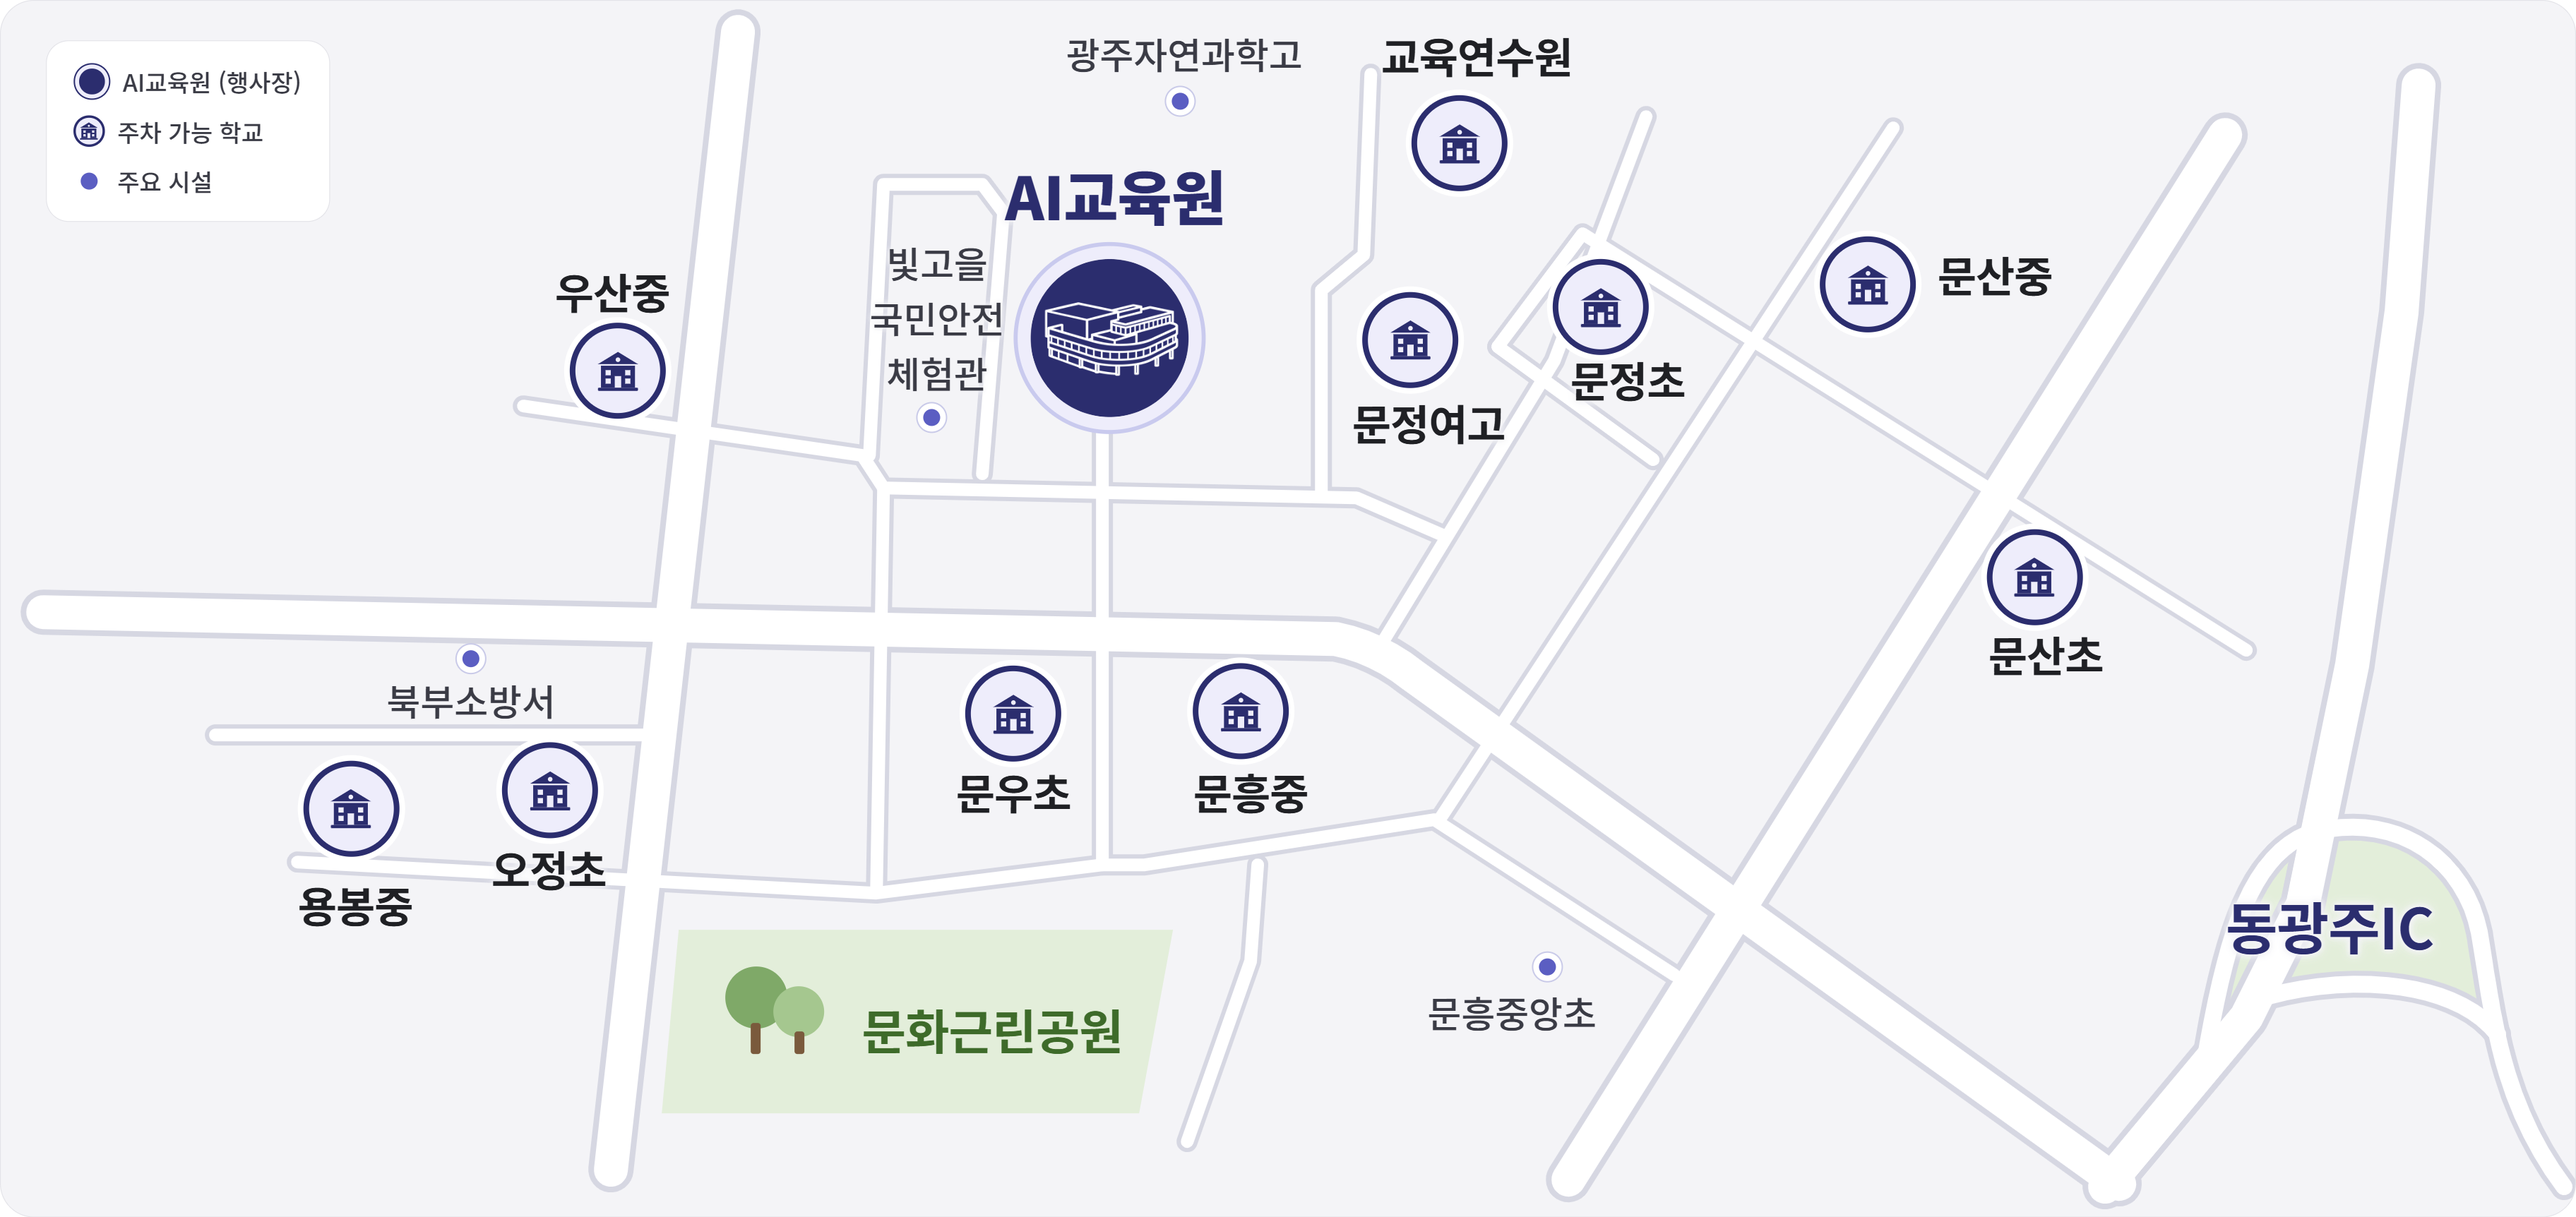
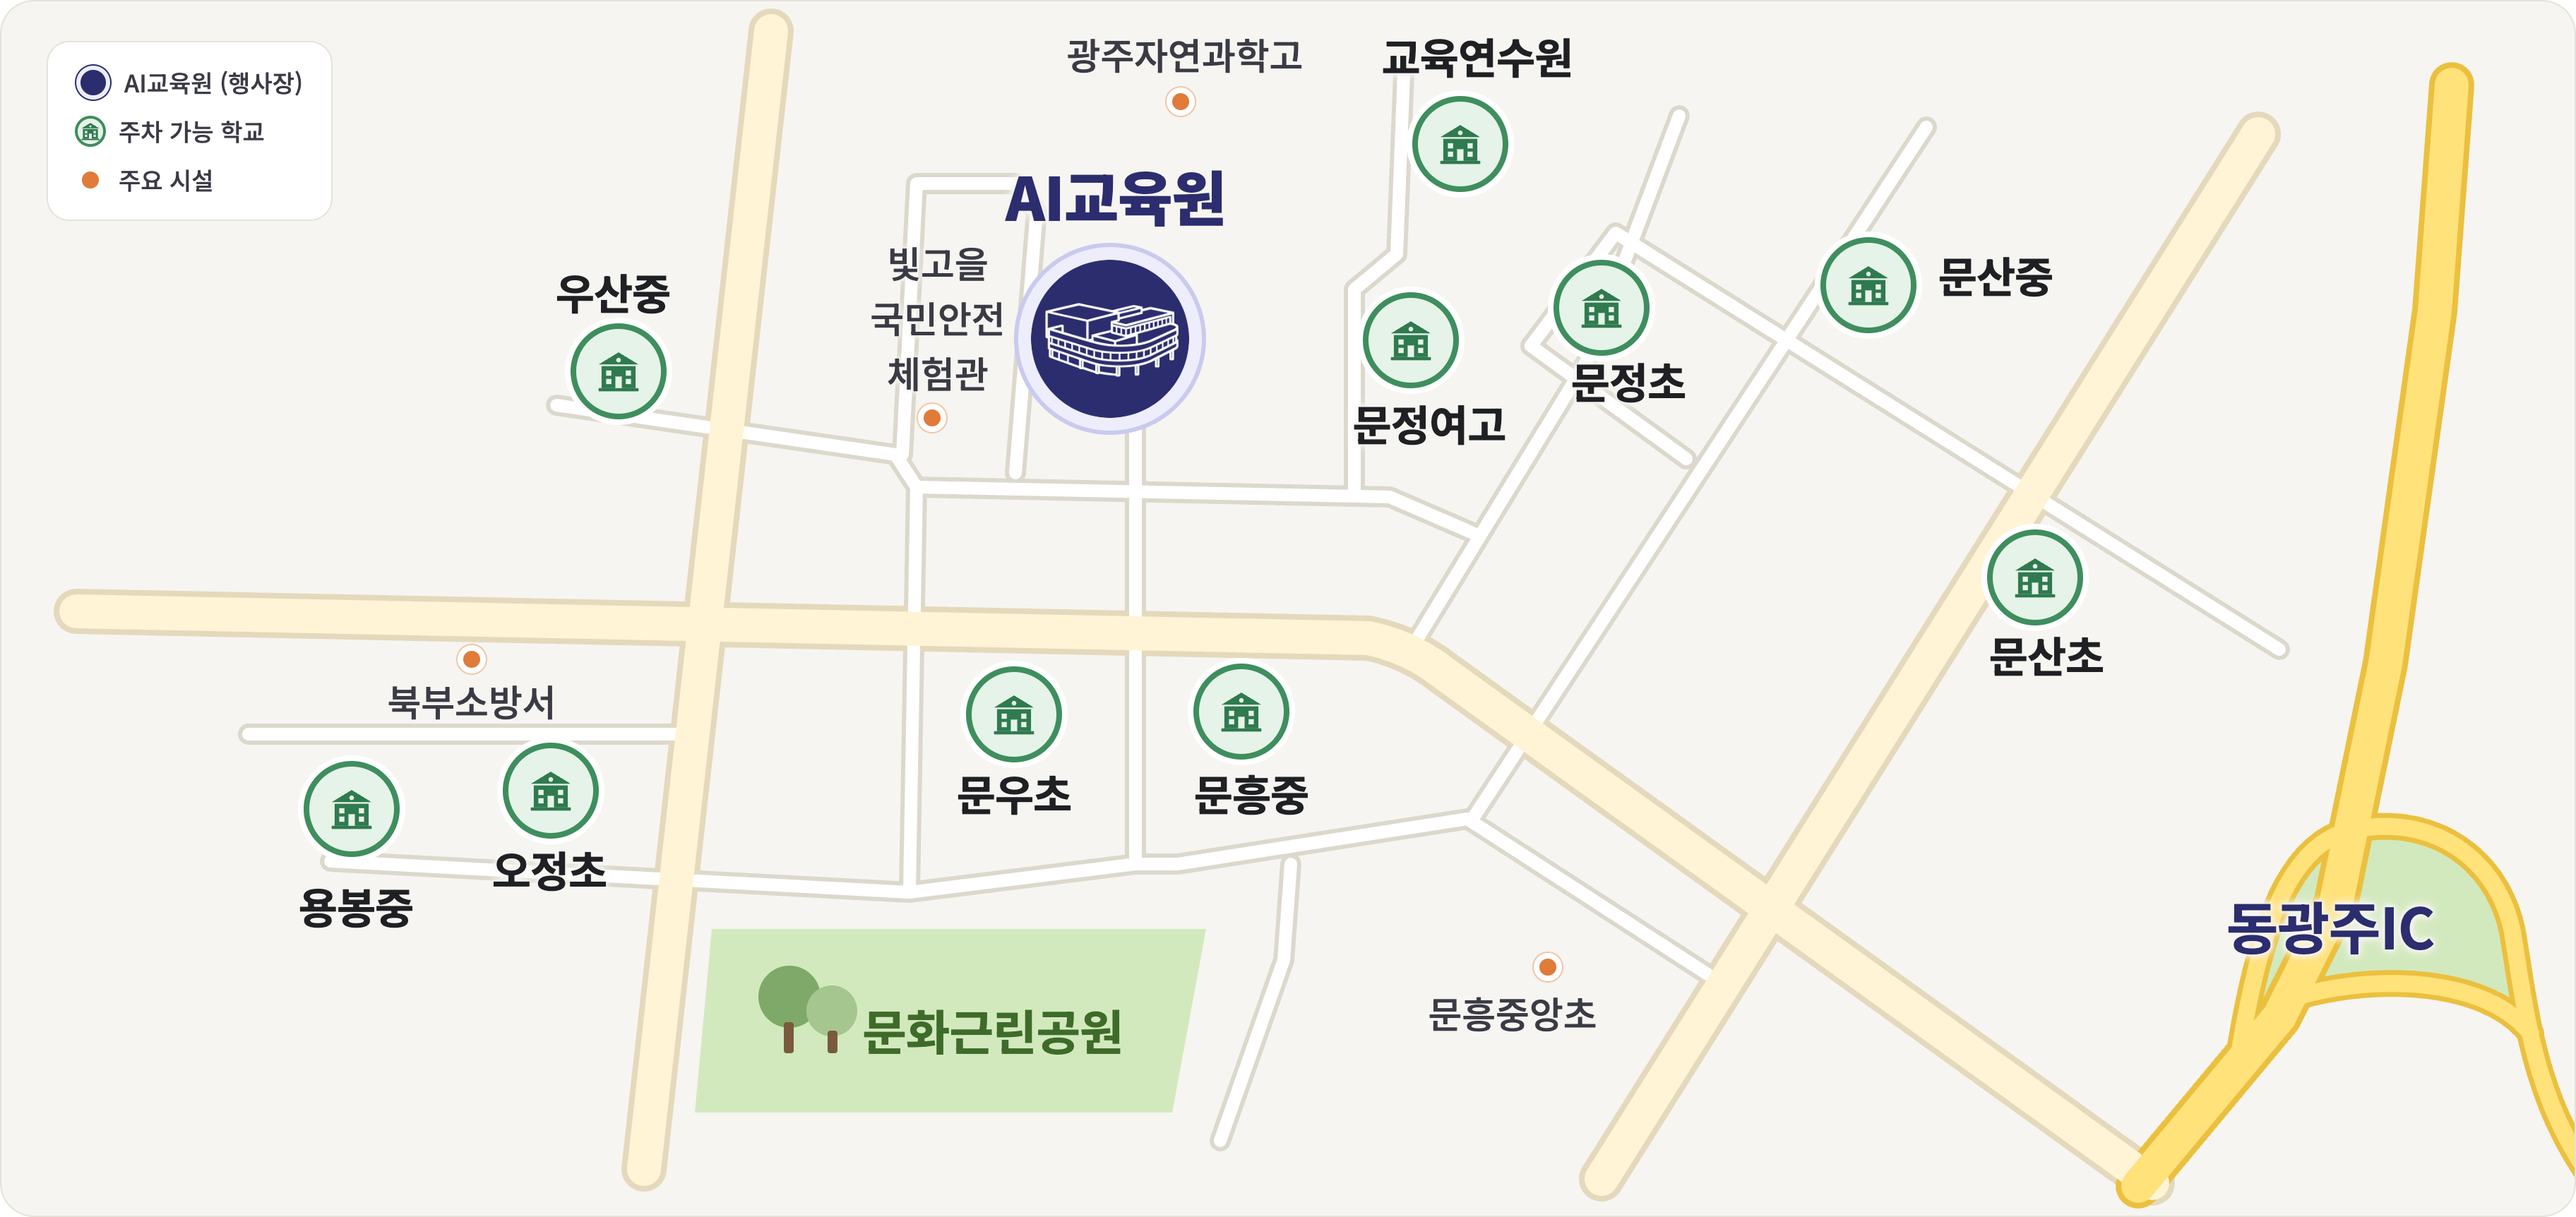
feat(assets): 포스터·임시 주차장 지도 이미지 교체

diff --git a/src/views/guide-overview/ui/PosterPreview.tsx b/src/views/guide-overview/ui/PosterPreview.tsx
@@ -22,8 +22,8 @@ export default function PosterPreview() {
         <Image
           src="/poster.png"
           alt={ALT}
-          width={1320}
-          height={1912}
+          width={964}
+          height={1438}
           sizes="(min-width: 1280px) 288px, 320px"
           className="h-auto w-full"
         />
@@ -49,8 +49,8 @@ export default function PosterPreview() {
         <Image
           src="/poster.png"
           alt={ALT}
-          width={1320}
-          height={1912}
+          width={964}
+          height={1438}
           sizes="95vw"
           className="h-[85vh] w-auto max-w-[95vw] object-contain"
         />
